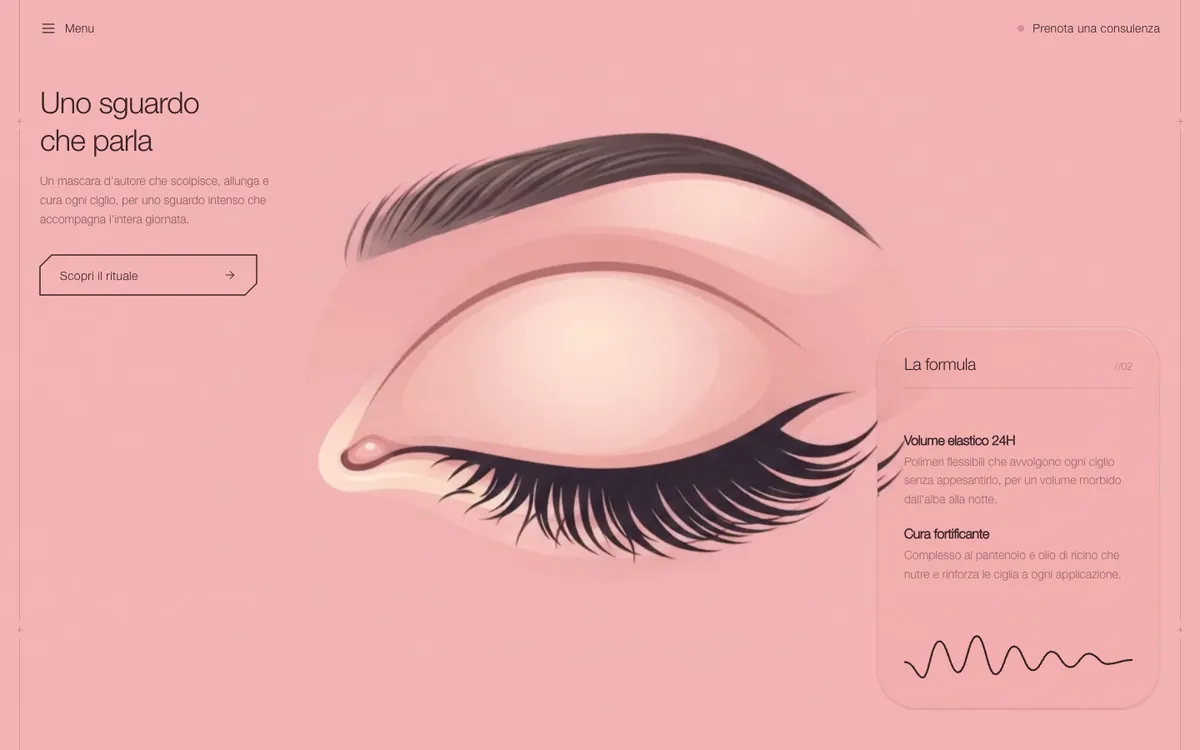
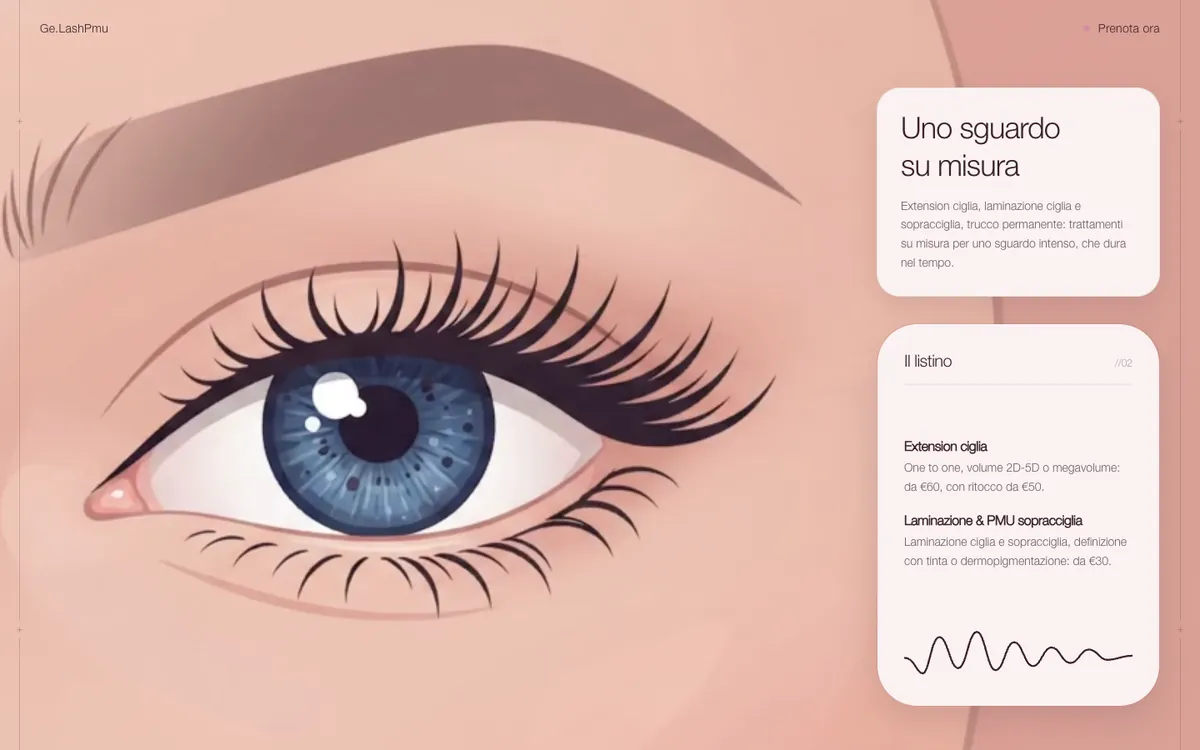
.

diff --git a/index.html b/index.html
@@ -783,30 +783,35 @@
           </article>
 
           <article class="site">
-            <div class="site-shot">
+            <a class="site-shot" href="https://rosaraia12-svg.github.io/Ge.LashPmu/" target="_blank" rel="noopener">
               <span class="site-bar" aria-hidden="true"><i></i><i></i><i></i></span>
               <img src="./assets/sites/gelashpmu.webp" width="1200" height="750" loading="lazy" decoding="async"
-                   alt="Ge.LashPmu digital business card: an illustrated eye with long lashes on a pink background, with a glass card describing the formula." />
-            </div>
+                   alt="Ge.LashPmu digital business card: an illustrated open eye with long lashes, next to glass cards reading Uno sguardo su misura and the price list." />
+            </a>
             <div class="site-body">
               <p class="site-meta">
-                <span class="site-status"><span data-lang="en">In progress</span><span data-lang="it">In corso</span></span>
-                <span data-lang="en">Lash &amp; permanent make-up</span><span data-lang="it">Ciglia e trucco permanente</span>
+                <span class="site-status site-status--live"><span data-lang="en">Live</span><span data-lang="it">Online</span></span>
+                <span data-lang="en">Lash extensions, lamination &amp; brow PMU</span><span data-lang="it">Extension, laminazione e PMU sopracciglia</span>
               </p>
               <h4 class="site-title">Ge.LashPmu</h4>
-              <p class="site-desc" data-lang="en">An intro in two acts: an illustrated eye opens, then the brand signature writes itself in cursive, and the page settles on the open gaze.</p>
-              <p class="site-desc" data-lang="it">Un'intro in due atti: un occhio illustrato si apre, poi la firma del brand si scrive in corsivo, e la pagina si ferma sullo sguardo aperto.</p>
+              <p class="site-desc" data-lang="en">An intro in two acts: an illustrated eye opens, then the brand signature writes itself in cursive, and the card settles on the open gaze with the treatments and the <strong>price list</strong>.</p>
+              <p class="site-desc" data-lang="it">Un'intro in due atti: un occhio illustrato si apre, poi la firma del brand si scrive in corsivo, e il biglietto si ferma sullo sguardo aperto con i trattamenti e il <strong>listino</strong>.</p>
               <ul class="bullets site-points" data-lang="en">
-                <li>A "liquid glass" card that truly refracts the video behind it: each frame is redrawn on a canvas under an SVG displacement filter.</li>
-                <li>Safari-proof: blend modes on the wrapper, forced loading, a watchdog and still-frame fallbacks; accessible full-screen menu.</li>
+                <li>A "liquid glass" price card that truly refracts the video behind it: each frame is redrawn on a canvas under an SVG displacement filter.</li>
+                <li>The signature is keyed on a canvas, turning brightness into transparency, so its black background disappears the same way in every browser, Safari included.</li>
+                <li>Booking through Instagram.</li>
               </ul>
               <ul class="bullets site-points" data-lang="it">
-                <li>Una card "liquid glass" che rifrange davvero il video sottostante: ogni fotogramma viene ridisegnato su canvas sotto un filtro SVG di distorsione.</li>
-                <li>A prova di Safari: blend mode sul contenitore, caricamento forzato, controllo di sicurezza e fotogrammi fissi di riserva; menu a schermo intero accessibile.</li>
+                <li>Una card "liquid glass" con il listino che rifrange davvero il video sottostante: ogni fotogramma viene ridisegnato su canvas sotto un filtro SVG di distorsione.</li>
+                <li>La firma viene ritagliata su canvas trasformando la luminosità in trasparenza, così lo sfondo nero sparisce allo stesso modo in ogni browser, Safari compreso.</li>
+                <li>Prenotazione via Instagram.</li>
               </ul>
               <ul class="tags">
-                <li>HTML · CSS · JS</li><li>Video</li><li><span data-lang="en">SVG filters</span><span data-lang="it">Filtri SVG</span></li>
+                <li>HTML · CSS · JS</li><li>Video</li><li>Canvas</li><li><span data-lang="en">SVG filters</span><span data-lang="it">Filtri SVG</span></li>
               </ul>
+              <a class="site-link" href="https://rosaraia12-svg.github.io/Ge.LashPmu/" target="_blank" rel="noopener">
+                <span data-lang="en">Open the card</span><span data-lang="it">Apri il biglietto</span> ↗
+              </a>
             </div>
           </article>
 
